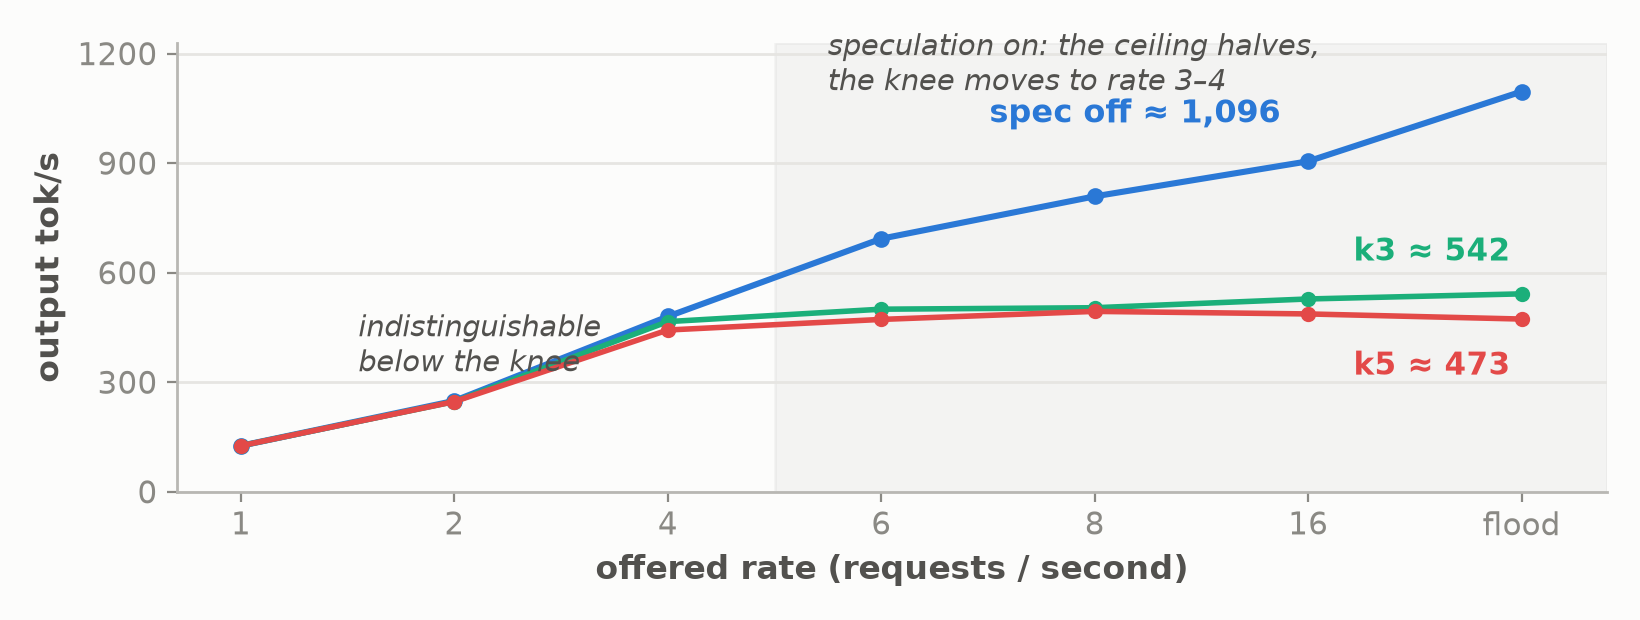
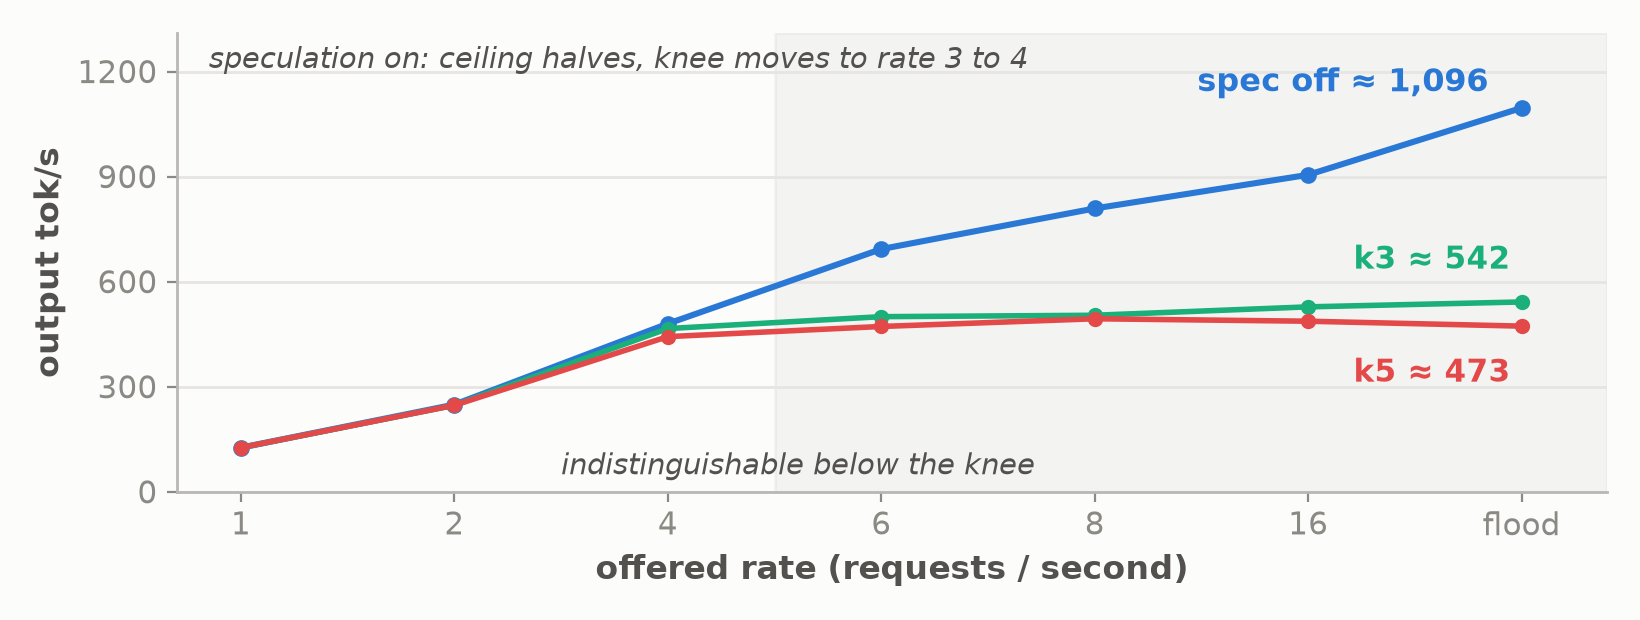
Part 7: drop the sweep table, fix label overlap in the throughput figure
The sweep figure carries the rate-by-rate numbers; the table duplicated
it. Re-place the figure's annotations so none sit on a curve, and point
the render script at the Part 7 filenames.

diff --git a/experiments/07-speculative-decoding/render_spec_figures.py b/experiments/07-speculative-decoding/render_spec_figures.py
@@ -1,11 +1,11 @@
 #!/usr/bin/env python3
 """
-Render Part 6's data figures in the series' chart style (palette and typography
+Render Part 7's data figures in the series' chart style (palette and typography
 matched to draft1/figures.html): warm off-white bg #fcfcfb, blue/green/red series,
 grey grid, italic annotations, shaded past-the-knee region.
 
-  fig-p6a  the headline: throughput vs offered rate, three arms (off / k3 / k5)
-  fig-p6b  the seat collapse: max concurrency + flooded running batch, off vs k5
+  fig7a  the headline: throughput vs offered rate, three arms (off / k3 / k5)
+  fig7b  the seat collapse: max concurrency + flooded running batch, off vs k5
 """
 import matplotlib
 matplotlib.use("Agg")
@@ -43,28 +43,28 @@ ax.axvspan(2.5, 6.4, color="#0b0b0b", alpha=0.035, zorder=0)
 ax.plot(x, off, "-o", color=BLUE, lw=2.2, ms=5, zorder=3)
 ax.plot(x, k3, "-o", color=GREEN, lw=2.0, ms=4.5, zorder=3)
 ax.plot(x, k5, "-o", color=RED, lw=2.0, ms=4.5, zorder=3)
-ax.annotate("spec off ≈ 1,096", (5, 905), xytext=(-10, 14),
+ax.annotate("spec off ≈ 1,096", (6, 1096), xytext=(-12, 6),
             textcoords="offset points", ha="right", fontsize=11.5,
-            fontweight=600, color=BLUE)
+            fontweight=700, color=BLUE)
 ax.annotate("k3 ≈ 542", (6, 542), xytext=(-4, 12),
-            textcoords="offset points", ha="right", fontsize=11, fontweight=600,
+            textcoords="offset points", ha="right", fontsize=11, fontweight=700,
             color=GREEN)
 ax.annotate("k5 ≈ 473", (6, 473), xytext=(-4, -20),
-            textcoords="offset points", ha="right", fontsize=11, fontweight=600,
+            textcoords="offset points", ha="right", fontsize=11, fontweight=700,
             color=RED)
-ax.text(0.55, 330, "indistinguishable\nbelow the knee", fontsize=10.5,
+ax.text(1.5, 50, "indistinguishable below the knee", fontsize=10.5,
         style="italic", color=SOFT)
-ax.text(2.75, 1100, "speculation on: the ceiling halves,\nthe knee moves to rate 3–4",
+ax.text(-0.15, 1210, "speculation on: ceiling halves, knee moves to rate 3 to 4",
         fontsize=10.5, style="italic", color=SOFT)
 ax.set_xticks(list(x), rates)
 ax.set_yticks([0, 300, 600, 900, 1200])
-ax.set_ylim(0, 1230)
+ax.set_ylim(0, 1310)
 ax.set_xlim(-0.3, 6.4)
-ax.set_xlabel("offered rate (requests / second)", fontsize=12, fontweight=550)
-ax.set_ylabel("output tok/s", fontsize=12, fontweight=550)
+ax.set_xlabel("offered rate (requests / second)", fontsize=12, fontweight="bold")
+ax.set_ylabel("output tok/s", fontsize=12, fontweight="bold")
 fig.tight_layout()
-fig.savefig("fig-p6a-sweep-inversion.png", facecolor=BG)
-print("wrote fig-p6a-sweep-inversion.png")
+fig.savefig("fig7a-sweep-inversion.png", facecolor=BG)
+print("wrote fig7a-sweep-inversion.png")
 
 # ---------------- Figure B: the seat collapse ----------------
 fig, axes = plt.subplots(1, 2, figsize=(8.2, 2.6), dpi=200)
@@ -96,5 +96,5 @@ fig.text(0.10, 0.05,
          "k5 keeps 6 state slots per request, so each request costs 6 seats "
          "from the same memory budget",
          fontsize=10.5, style="italic", color=SOFT)
-fig.savefig("fig-p6b-seat-collapse.png", facecolor=BG)
-print("wrote fig-p6b-seat-collapse.png")
+fig.savefig("fig7b-seat-collapse.png", facecolor=BG)
+print("wrote fig7b-seat-collapse.png")

diff --git a/articles/part-7.md b/articles/part-7.md
@@ -172,17 +172,8 @@ Now the series' standard measurement: a fixed workload of 256 input and 128 outp
 tokens, randomly generated, the request rate swept from 1 per second to a flood, 200
 prompts per point, warm server. Random tokens are the acceptance-hostile extreme, and
 the server metrics confirm it: in the k5 arm, the guess-5 configuration, **about 21% of
-drafted tokens are accepted**. Output tokens per second:
-
-| Offered rate | Spec off | k5 | k3 |
-|---|---|---|---|
-| 1 | 126 | 126 | 126 |
-| 2 | 249 | 247 | 247 |
-| 4 | 480 | 443 | 466 |
-| 6 | 693 | 472 | 500 |
-| 8 | 809 | 494 | 504 |
-| 16 | 905 | 487 | 528 |
-| flood | **1,096** | **473** | **542** |
+drafted tokens are accepted**. Output tokens per second against offered rate, for all
+three arms:
 
 ![Three throughput curves against offered rate: with speculation off the server climbs to about 1,100 tokens a second; with k3 or k5 speculation it flattens near 540 and 470 from rate 4 onward](../assets/figures/fig7a-sweep-inversion.png)
 
